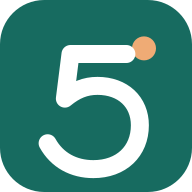
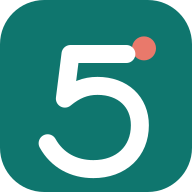
Apply mint coral brand palette

Changed region(s): [[0.6875, 0.1875, 0.8125, 0.3125]]

diff --git a/src/app/globals.css b/src/app/globals.css
@@ -3,17 +3,19 @@
 
 :root {
   color-scheme: light;
-  --background: #f5f7f4;
-  --foreground: #172b2b;
+  --background: #fffaf7;
+  --foreground: #203433;
   --surface: #ffffff;
-  --surface-soft: #eef5f1;
-  --muted: #607370;
-  --line: #dce7e1;
-  --brand: #176b60;
-  --brand-strong: #105449;
-  --brand-light: #e2f3eb;
-  --accent: #efab75;
-  --shadow: 0 18px 48px -30px rgb(20 66 58 / 28%);
+  --surface-soft: #f2f7f3;
+  --muted: #60736e;
+  --line: #dfe7e1;
+  --brand: #0f766e;
+  --brand-strong: #0b5c55;
+  --brand-light: #e4f3ef;
+  --accent: #e9796b;
+  --accent-soft: #fbe9e3;
+  --accent-ink: #713c35;
+  --shadow: 0 18px 48px -30px rgb(20 66 58 / 24%);
 }
 
 .dark {
@@ -27,7 +29,9 @@
   --brand: #75d5be;
   --brand-strong: #a4e8d4;
   --brand-light: #24473e;
-  --accent: #eeb58d;
+  --accent: #f3a99b;
+  --accent-soft: #50332e;
+  --accent-ink: #fbe9e3;
   --shadow: 0 18px 48px -30px rgb(0 0 0 / 70%);
 }
 
@@ -51,9 +55,9 @@ button, input, select, textarea { font: inherit; }
 button { cursor: pointer; }
 button:disabled { opacity: .55; cursor: not-allowed; }
 :focus-visible { outline: 3px solid var(--accent); outline-offset: 3px; }
-::selection { background: #b4e8d4; color: #143c34; }
+::selection { background: #f8c9bf; color: #203433; }
 
-.app-shell { min-height: 100vh; background: radial-gradient(circle at 85% -10%, #e2f5e8 0, transparent 29rem), var(--background); }
+.app-shell { min-height: 100vh; background: radial-gradient(circle at 85% -10%, #e2f4ed 0, transparent 29rem), radial-gradient(circle at 5% 70%, #fff0ea 0, transparent 24rem), var(--background); }
 .dark .app-shell { background: radial-gradient(circle at 85% -10%, #1c403a 0, transparent 29rem), var(--background); }
 .surface-card { background: var(--surface); border: 1px solid var(--line); border-radius: 1.5rem; box-shadow: var(--shadow); }
 .soft-card { background: var(--surface-soft); border: 1px solid var(--line); border-radius: 1rem; }
@@ -61,10 +65,10 @@ button:disabled { opacity: .55; cursor: not-allowed; }
 .muted { color: var(--muted); }
 .brand-link { color: var(--brand); font-weight: 700; text-underline-offset: 4px; }
 .brand-link:hover { text-decoration: underline; }
-.brand-mark { display: inline-grid; place-items: center; width: 2.65rem; height: 2.65rem; border-radius: .9rem; background: var(--brand); color: #fff; font-size: 1.2rem; font-weight: 900; line-height: 1; box-shadow: 0 8px 22px -12px #176b60; }
+.brand-mark { display: inline-grid; place-items: center; width: 2.65rem; height: 2.65rem; border-radius: .9rem; background: var(--brand); color: #fff; font-size: 1.2rem; font-weight: 900; line-height: 1; box-shadow: 0 8px 22px -12px #0f766e; }
 .dark .brand-mark { color: #10352e; }
 .primary-button, .secondary-button, .ghost-button { display: inline-flex; align-items: center; justify-content: center; gap: .45rem; border-radius: .85rem; min-height: 2.75rem; padding: .65rem 1rem; font-size: .875rem; font-weight: 750; line-height: 1.2; transition: background .18s ease, transform .18s ease, box-shadow .18s ease; }
-.primary-button { background: var(--brand); color: #fff; box-shadow: 0 10px 22px -15px #176b60; }
+.primary-button { background: var(--brand); color: #fff; box-shadow: 0 10px 22px -15px #0f766e; }
 .primary-button:hover:not(:disabled) { background: var(--brand-strong); transform: translateY(-1px); }
 .dark .primary-button { color: #10352e; }
 .secondary-button { border: 1px solid var(--line); background: var(--surface); color: var(--foreground); }
@@ -88,6 +92,7 @@ textarea { resize: vertical; }
 
 .rdp { --rdp-accent-color: var(--brand); --rdp-accent-background-color: var(--brand-light); margin: 0 auto; }
 .rdp-day_selected, .rdp-day_selected:hover { background: var(--brand) !important; color: #fff !important; }
+.dark .rdp-day_selected, .dark .rdp-day_selected:hover { color: #10352e !important; }
 .rdp-day_today { color: var(--brand) !important; font-weight: 800; }
 .rdp-day_workA { background: #c5e7e1; color: #19534c; }
 .rdp-day_workB { background: #d4e8f6; color: #274b65; }

diff --git a/src/app/page.tsx b/src/app/page.tsx
@@ -35,8 +35,8 @@ export default function LandingPage() {
           </div>
 
           <div className="relative mx-auto w-full max-w-[480px]" aria-label="일정 조율 화면 예시">
-            <div className="absolute -left-5 -top-6 h-32 w-32 rounded-full bg-[#d6eee3] blur-3xl dark:bg-[#285347]" />
-            <div className="absolute -bottom-8 -right-6 h-40 w-40 rounded-full bg-[#f7dfc8] blur-3xl dark:bg-[#5c4634]" />
+            <div className="absolute -left-5 -top-6 h-32 w-32 rounded-full bg-[#d9f1e8] blur-3xl dark:bg-[#285347]" />
+            <div className="absolute -bottom-8 -right-6 h-40 w-40 rounded-full bg-[#f9d4cb] blur-3xl dark:bg-[#5c3634]" />
             <div className="surface-card relative overflow-hidden p-5 sm:p-7">
               <div className="mb-6 flex items-center justify-between">
                 <div>
@@ -47,17 +47,17 @@ export default function LandingPage() {
               </div>
               <div className="grid grid-cols-5 gap-2 text-center text-xs">
                 {['월', '화', '수', '목', '금'].map((d, i) => (
-                  <div key={d} className={`rounded-2xl px-1 py-3 ${i === 2 ? 'bg-[var(--brand)] text-white' : 'bg-[var(--surface-soft)]'}`}>
+                  <div key={d} className={`rounded-2xl px-1 py-3 ${i === 2 ? 'bg-[var(--brand)] text-white dark:text-[#10352e]' : 'bg-[var(--surface-soft)]'}`}>
                     <div className="opacity-70">{d}</div><div className="mt-2 text-base font-extrabold">{14 + i}</div>
                   </div>
                 ))}
               </div>
               <div className="mt-6 space-y-3">
-                <div className="flex items-center gap-3 rounded-xl bg-[var(--surface-soft)] p-3"><span className="h-8 w-8 rounded-full bg-[#c5e7e1]" /><span className="text-sm font-semibold">지은</span><span className="ml-auto text-xs text-[var(--brand)]">18:00 이후 가능</span></div>
-                <div className="flex items-center gap-3 rounded-xl bg-[var(--surface-soft)] p-3"><span className="h-8 w-8 rounded-full bg-[#f8e1ca]" /><span className="text-sm font-semibold">민호</span><span className="ml-auto text-xs text-[var(--brand)]">19:00 이후 가능</span></div>
+                <div className="flex items-center gap-3 rounded-xl bg-[var(--surface-soft)] p-3"><span className="h-8 w-8 rounded-full bg-[#bce8dc]" /><span className="text-sm font-semibold">지은</span><span className="ml-auto text-xs text-[var(--brand)]">18:00 이후 가능</span></div>
+                <div className="flex items-center gap-3 rounded-xl bg-[var(--surface-soft)] p-3"><span className="h-8 w-8 rounded-full bg-[#f8c4b9]" /><span className="text-sm font-semibold">민호</span><span className="ml-auto text-xs text-[var(--brand)]">19:00 이후 가능</span></div>
                 <div className="flex items-center gap-3 rounded-xl bg-[var(--surface-soft)] p-3"><span className="h-8 w-8 rounded-full bg-[#d4e8f6]" /><span className="text-sm font-semibold">서연</span><span className="ml-auto text-xs text-[var(--brand)]">18:30 이후 가능</span></div>
               </div>
-              <div className="mt-5 rounded-xl bg-[#e7f5ed] p-4 text-sm text-[#21584a] dark:bg-[#24473e] dark:text-[#d8f7e9]"><span className="font-extrabold">추천 시간</span><span className="float-right font-bold">수요일 19:00 – 21:00</span></div>
+              <div className="mt-5 rounded-xl bg-[var(--accent-soft)] p-4 text-sm text-[var(--accent-ink)]"><span className="font-extrabold">추천 시간</span><span className="float-right font-bold">수요일 19:00 – 21:00</span></div>
             </div>
           </div>
         </section>

diff --git a/src/components/GoogleCalendarConnection.tsx b/src/components/GoogleCalendarConnection.tsx
@@ -95,7 +95,7 @@ export default function GoogleCalendarConnection() {
           <div><strong className="block">Google Calendar</strong><span className="muted text-xs">기본 캘린더와 양방향 동기화</span></div>
         </div>
         <div className="flex flex-wrap items-center gap-2">
-          <span className={`rounded-full px-3 py-1 text-xs font-bold ${connected ? 'bg-[#e2f3eb] text-[#176b60] dark:bg-[#24473e] dark:text-[#9de6ce]' : 'bg-[var(--surface-soft)] text-[var(--muted)]'}`}>{connected ? '연결됨' : '연결 전'}</span>
+          <span className={`rounded-full px-3 py-1 text-xs font-bold ${connected ? 'bg-[var(--brand-light)] text-[var(--brand)]' : 'bg-[var(--surface-soft)] text-[var(--muted)]'}`}>{connected ? '연결됨' : '연결 전'}</span>
           <a href="/api/google/connect" className="secondary-button !min-h-9 !px-3">{connected ? "다시 연결" : "캘린더 연결"}</a>
           {connected && <button className="primary-button !min-h-9 !px-3" disabled={busy} onClick={() => void sync()}>{busy ? "동기화 중…" : "지금 동기화"}</button>}
         </div>

diff --git a/src/app/login/page.tsx b/src/app/login/page.tsx
@@ -42,7 +42,7 @@ export default function LoginPage() {
           {authError && <p role="alert" className="mb-5 rounded-xl border border-[#f3c8ad] bg-[#fff3e9] p-3 text-sm text-[#7d4229] dark:border-[#825840] dark:bg-[#3a281f] dark:text-[#ffd5bd]">로그인을 완료하지 못했어요. 다시 시도해 주세요. 문제가 계속되면 관리자에게 알려주세요.</p>}
           <Auth
             supabaseClient={supabase}
-            appearance={{ theme: ThemeSupa, variables: { default: { colors: { brand: '#176b60', brandAccent: '#105449', inputBackground: 'transparent' }, radii: { borderRadiusButton: '12px', inputBorderRadius: '12px' } } } }}
+            appearance={{ theme: ThemeSupa, variables: { default: { colors: { brand: '#0f766e', brandAccent: '#0b5c55', inputBackground: 'transparent' }, radii: { borderRadiusButton: '12px', inputBorderRadius: '12px' } } } }}
             theme={resolvedTheme === 'dark' ? 'dark' : 'default'}
             providers={['google']}
             redirectTo={redirectUrl}

diff --git a/src/components/TimePlanner.tsx b/src/components/TimePlanner.tsx
@@ -241,7 +241,7 @@ export default function TimePlanner() {
                   <button
                     key={e.id}
                     onClick={() => edit(e)}
-                    className={`rounded-lg border-l-[3px] px-3 py-2 text-left text-xs font-semibold ${e.kind === "work" ? "border-[#176b60] bg-[#e2f3eb] text-[#14584e]" : e.kind === "rest" ? "border-[#7799a2] bg-[#e8f0f1] text-[#3d6267]" : "border-[#de9865] bg-[#fff0e2] text-[#754929]"}`}
+                    className={`rounded-lg border-l-[3px] px-3 py-2 text-left text-xs font-semibold ${e.kind === "work" ? "border-[#0f766e] bg-[#e4f3ef] text-[#155a53] dark:bg-[#24473e] dark:text-[#c4efdf]" : e.kind === "rest" ? "border-[#7799a2] bg-[#e8f0f1] text-[#3d6267] dark:bg-[#29434a] dark:text-[#d7eaeb]" : "border-[#e9796b] bg-[#fbe9e3] text-[#713c35] dark:bg-[#50332e] dark:text-[#fbe9e3]"}`}
                   >
                     {e.title} {localInput(e.starts_at).slice(11)}–
                     {localInput(e.ends_at).slice(11)}

diff --git a/src/app/layout.tsx b/src/app/layout.tsx
@@ -20,7 +20,7 @@ export default function RootLayout({
     <html lang="ko" suppressHydrationWarning>
       <head>
         <meta name="viewport" content="width=device-width, initial-scale=1" />
-        <meta name="theme-color" content="#176b60" />
+        <meta name="theme-color" content="#0f766e" />
       </head>
       <body className={inter.variable}>
         <ThemeProvider

diff --git a/src/app/planner-actions.ts b/src/app/planner-actions.ts
@@ -208,7 +208,7 @@ export async function savePattern(pattern: Partial<ShiftPattern>) {
     end_day_offset: pattern.end_day_offset,
     color: /^#[0-9a-f]{6}$/i.test(pattern.color ?? "")
       ? pattern.color
-      : "#2563eb",
+      : "#0f766e",
     is_off: !!pattern.is_off,
   });
   if (error)

diff --git a/src/components/Toast.tsx b/src/components/Toast.tsx
@@ -15,7 +15,7 @@ export function Toast({ message, type, onClose }: ToastProps) {
   }, [onClose])
 
   const colorClass = {
-    success: 'bg-[#176b60]',
+    success: 'bg-[#0f766e]',
     error: 'bg-[#a54036]',
     info: 'bg-[#356d82]',
   }[type]

diff --git a/src/app/settings/work-pattern/page.tsx b/src/app/settings/work-pattern/page.tsx
@@ -9,7 +9,7 @@ const blank = {
   start_time: "09:00",
   end_time: "18:00",
   end_day_offset: 0,
-  color: "#2563eb",
+  color: "#0f766e",
   is_off: false,
 };
 export default function WorkPatternPage() {
